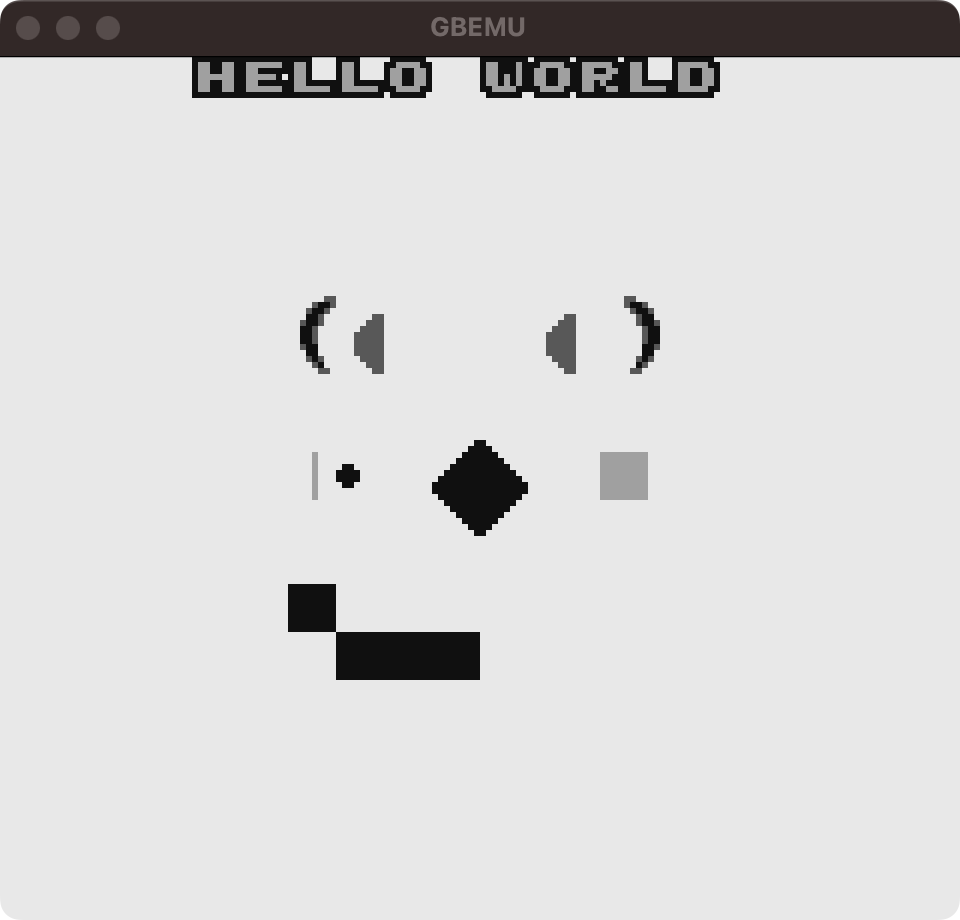
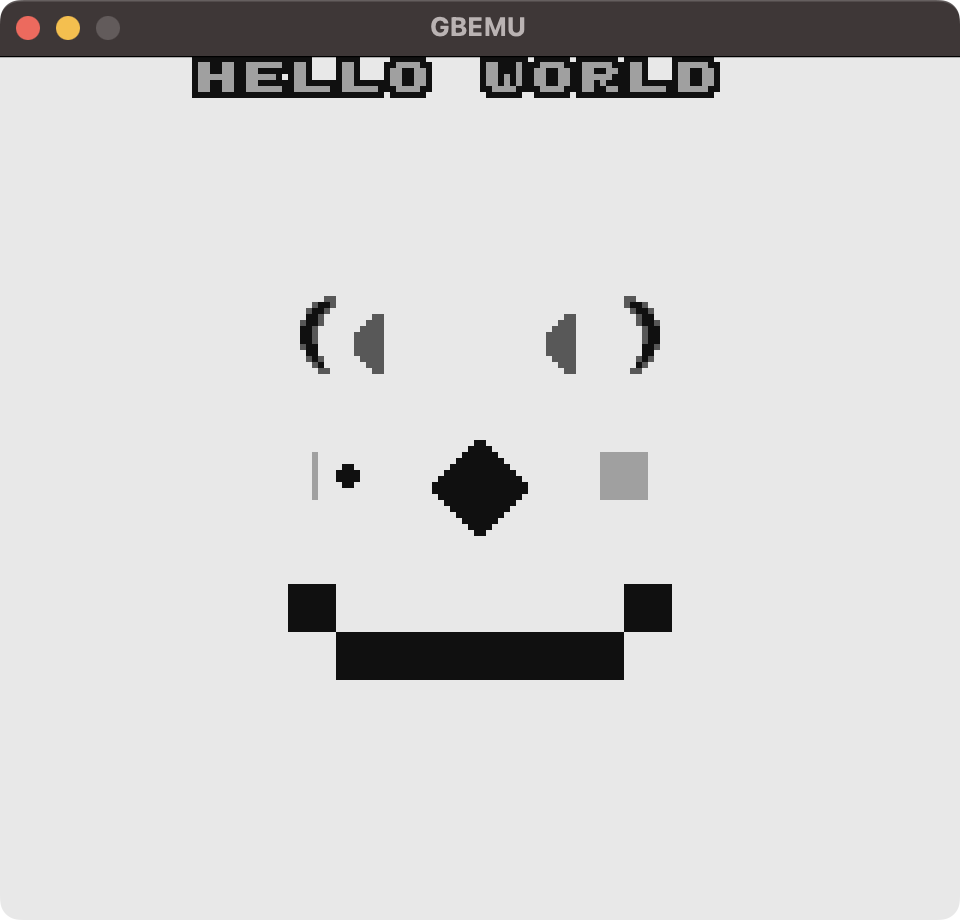
タイルが8x16のときTileIndexの最下位ビットを無視するのを忘れていた

Changed region(s): [[0.5, 0.6087, 0.7188, 0.7609], [0.4375, 0.0, 0.5625, 0.0609], [0.0, 0.0, 0.0938, 0.0609]]

diff --git a/src/ppu.cc b/src/ppu.cc
@@ -204,7 +204,10 @@ void Ppu::WriteSingleObjectOnCurrentLine(const Object& object) {
   int tile_row_offset =
       object.IsYFlip() ? (lcdc_.GetCurrentObjectHeight() - 1 - lcd_y_offset)
                        : lcd_y_offset;
-  int tile_data_address = object.tile_index * 16;
+  int upper_tile_index = lcdc_.GetCurrentObjectSize() == ObjectSize::kDouble
+                             ? object.tile_index & 0xFE
+                             : object.tile_index;
+  int tile_data_address = upper_tile_index * 16;
   std::uint8_t* tile_row_data =
       &vram_.at(tile_data_address + tile_row_offset * 2);
   std::uint8_t lower_bits = *tile_row_data;
